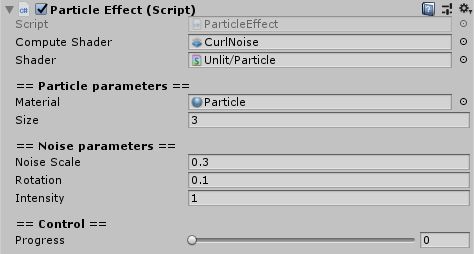
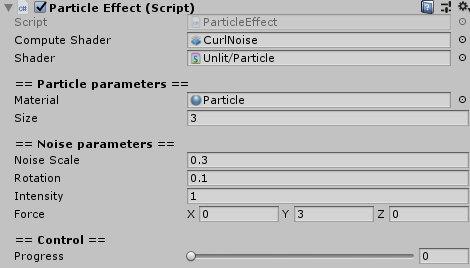
feat: Added an explain for Force param.

diff --git a/README.md b/README.md
@@ -14,6 +14,10 @@ You can set some parameters on the inspector like below.
 
 ![Inspector](./inspector.png)
 
+### Size
+
+Size means a point size.
+
 ### Noise Scale
 
 Noise scale means PerlinNoise scale. If you change the value, noise will change looking.
@@ -26,7 +30,9 @@ Rotation means that rotate each vertex before applying curl noise. So if you cha
 
 Intensity means that how far applying to the value to each vertex. If you change the value, then all vertices are moved more far from origin.
 
+### Force
 
+Force means like force field. If you change this parameter, then the particle is moved belongs to the `Force` vector.
 
 ## How to use
 
